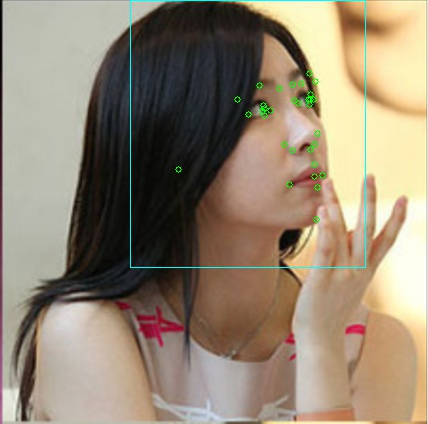
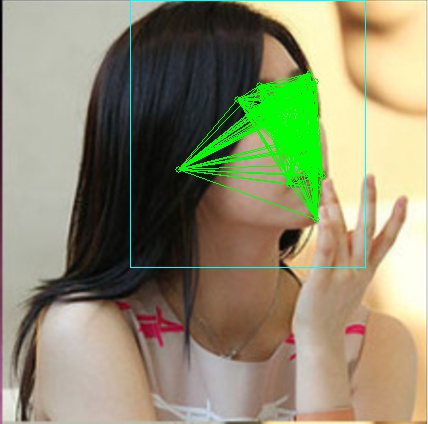
connected lines

Changed region(s): [[0.4252, 0.1533, 0.7593, 0.5212]]

diff --git a/main.py b/main.py
@@ -16,7 +16,16 @@ def main():
 	inputfile = str(sys.argv[1])
 	outputfile = "output of: " + inputfile
 
-	myDict = {'chin_gnathion', 'forehead_glabella', 'left_ear_tragion', 'left_eye', 'left_eye_bottom_boundary', 'left_eye_left_corner', 'left_eye_pupil', 'left_eye_right_corner', 'left_eye_top_boundary', 'left_eyebrow_upper_midpoint', 'left_of_left_eyebrow', 'left_of_right_eyebrow', 'lower_lip', 'midpoint_between_eyes', 'mouth_center', 'mouth_left', 'mouth_right', 'nose_bottom_center', 'nose_bottom_left', 'nose_bottom_right', 'nose_tip', 'right_ear_tragion', 'right_eye', 'right_eye_bottom_boundary', 'right_eye_left_corner', 'right_eye_pupil', 'right_eye_right_corner', 'right_eye_top_boundary', 'right_eyebrow_upper_midpoint', 'right_of_left_eyebrow', 'right_of_right_eyebrow', 'upper_lip'}
+	myDict = {'chin_gnathion', 'left_ear_tragion', 'left_eye_pupil', 'mouth_center', 'right_ear_tragion', 'right_eye_pupil'}
+
+	midpointeyesDict = {'forehead_glabella', 'midpoint_between_eyes','nose_tip'}
+	lefteyeDict = {'left_eye', 'left_eye_bottom_boundary', 'left_eye_left_corner', 'left_eye_right_corner', 'left_eye_top_boundary'}
+	righteyeDict = {'right_eye', 'right_eye_bottom_boundary', 'right_eye_left_corner', 'right_eye_right_corner', 'right_eye_top_boundary'}
+	lefteyebrowDict = {'left_eyebrow_upper_midpoint', 'left_of_left_eyebrow', 'right_of_left_eyebrow'}
+	righteyebrowDict = {'left_of_right_eyebrow', 'right_eyebrow_upper_midpoint', 'right_of_right_eyebrow'}
+	noseDict = {'nose_tip','nose_bottom_right','nose_bottom_center','nose_bottom_left'}
+	mouseDict = {'lower_lip', 'mouth_left', 'upper_lip', 'mouth_right'}
+	list_of_dict = [midpointeyesDict,lefteyeDict,righteyeDict,lefteyebrowDict,righteyebrowDict,noseDict,mouseDict]
 
 	vision_client = vision.Client()
 	body = make_request(inputfile)
@@ -37,11 +46,42 @@ def main():
 		vertices = (['({},{})'.format(bound.x_coordinate, bound.y_coordinate)
 					for bound in face.bounds.vertices])
 
-		for attr in myDict:
-			x = getattr(face._landmarks,attr)._position._x_coordinate
-			y = getattr(face._landmarks,attr)._position._y_coordinate
-			pt = (int(x),int(y))
-			cv2.circle(a, pt, 3, (0,255,0))
+		for dictionary in list_of_dict:
+			points = []
+			target = 0
+			for attr in dictionary:
+				x = getattr(face._landmarks,attr)._position._x_coordinate
+				y = getattr(face._landmarks,attr)._position._y_coordinate
+				pt = (int(x),int(y))
+				points.append(pt)
+				cv2.circle(a, pt, 1, (0,255,0))
+			length = len(points)
+			while (target < length):
+				if (target == length - 1):
+					cv2.line(a, points[target], points[0], (0,255,0), thickness=1)
+				else:
+					cv2.line(a, points[target], points[target+1], (0,255,0), thickness=1)
+				target += 1
+
+
+		# for attr in myDict:
+		# 	x = getattr(face._landmarks,attr)._position._x_coordinate
+		# 	y = getattr(face._landmarks,attr)._position._y_coordinate
+		# 	pt = (int(x),int(y))
+		# 	points.append(pt)
+		# 	cv2.circle(a, pt, 3, (0,255,0))
+
+		# length = len(points)
+		# count = 0
+		# target = 0
+		# while (target < length):
+		# 	count = target + 1
+		# 	while (count < length):
+		# 		cv2.line(a, points[target], points[count], (0,255,0), thickness=1)
+		# 		count += 1
+		# 	target += 1
+
+
 		cv2.rectangle(a,literal_eval(vertices[0]),literal_eval(vertices[2]),(255,255,0),1)
 
 		print('anger: {}'.format(face.emotions.anger))
